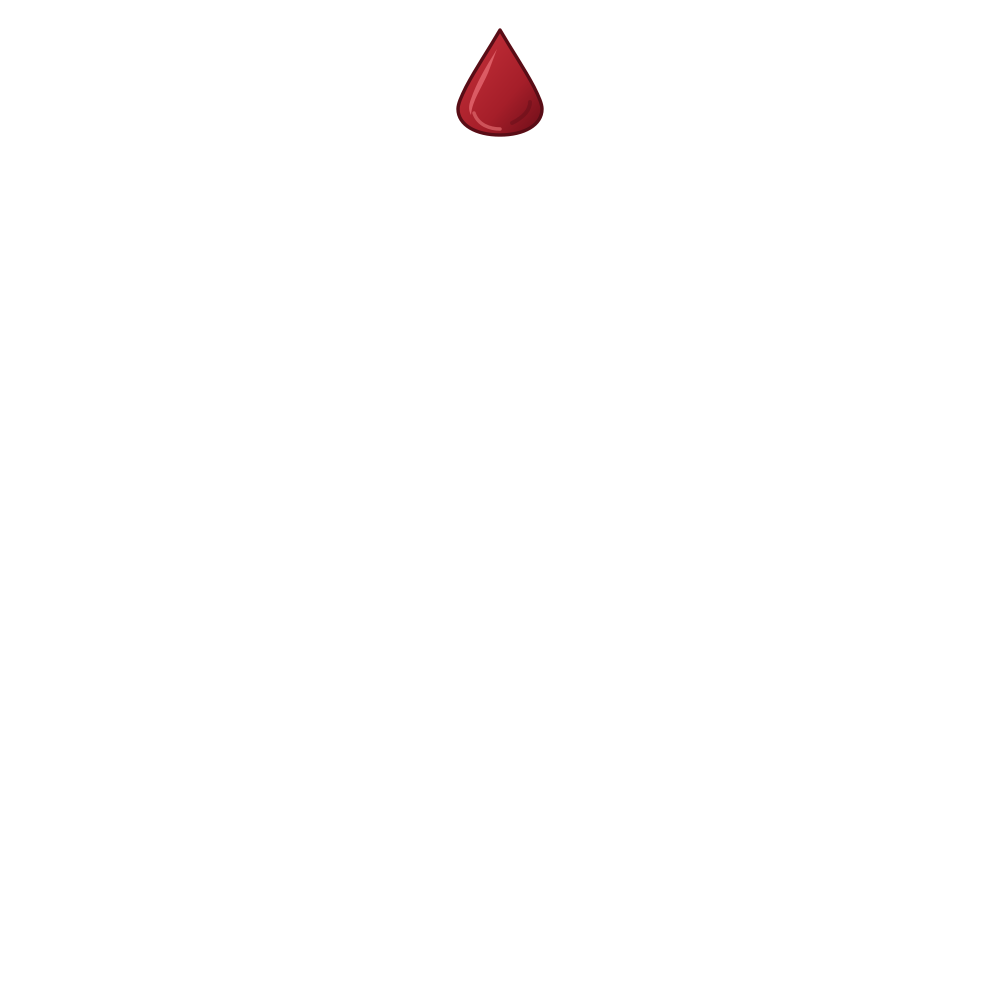
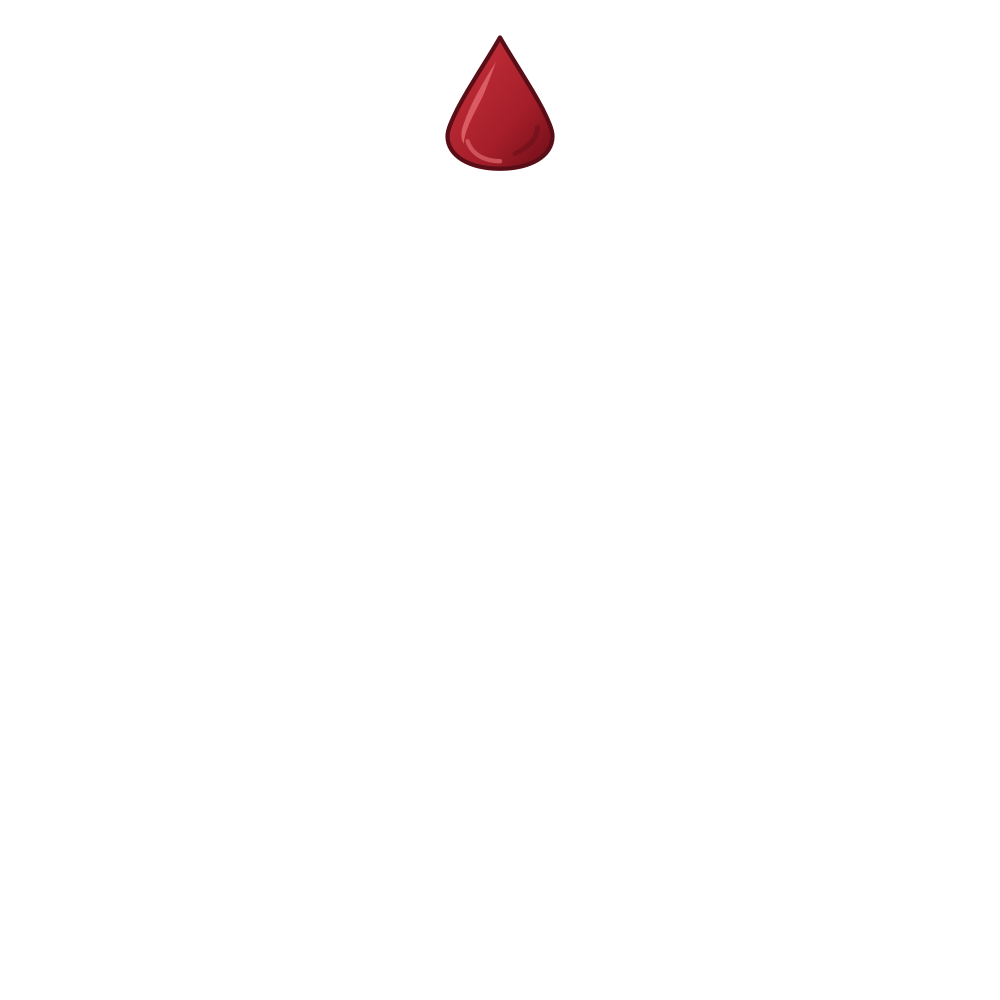
Add files via upload

Changed region(s): [[0.434, 0.031, 0.558, 0.186]]

diff --git a/README.md b/README.md
@@ -1,6 +1,13 @@
-# DSA – Token-Status, Version 1.0.0
+# DSA – Token-Status, Version 1.1.0
 
-Eine Owlbear-Rodeo-Extension für **DSA 4.1**. Sie zeigt an runden Charakter-Tokens 0–3 Wunden als kleine rote Blutstropfen. Position: **erste Wunde 12 Uhr, zweite 11 Uhr, dritte 1 Uhr**. Die Grafiken bleiben vollständig innerhalb des Tokenkreises.
+Eine Owlbear-Rodeo-Extension für **DSA 4.1**. Sie zeigt an runden Charakter-Tokens 0–3 Wunden als kleine rote Blutstropfen. Position: **erste Wunde 12 Uhr, zweite 11 Uhr, dritte 1 Uhr**. Die Grafiken bleiben vollständig innerhalb des Tokenkreises. **V1.1:** Blutstropfen 25 % größer; die Positionen 12, 11 und 1 Uhr bleiben erhalten.
+
+## Update von V1.0 auf V1.1
+
+- Den **Patch** `DSA_Token_Status_Update_V1_1.zip` entpacken und dessen Projektdateien unter ihren bestehenden Pfaden in das GitHub-Repository hochladen / überschreiben. Der `.github`-Ordner wird dabei **nicht** benötigt und soll unverändert bleiben. Alternativ das vollständige V1.1-Projekt verwenden.
+- `Settings → Pages` bleibt auf **GitHub Actions**. Nach dem Commit den erfolgreichen Workflow abwarten. Die Manifest-Adresse ändert sich **nicht**: `https://ionem.github.io/dsa-token-status/manifest.json`.
+- Bereits vorhandene Token-Wundmarker werden nicht automatisch verändert: Das Token auswählen und dieselbe Wundstufe über das Kontextmenü **erneut setzen**. Die neue Grafik wird mit einem geänderten Asset-URL-Parameter geladen (`?v=1.1.0`), um veraltete Browser-Caches zu umgehen.
+- Bei Bedarf Owlbear Rodeo / Extension einmal neu laden, falls im Kontextmenü noch die alte Version aktiv ist.
 
 ## Bedienung
 
